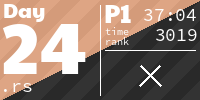
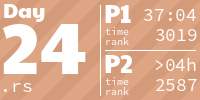
day25: complete solution sill need to finish day 21 for the last star!

diff --git a/src/day25.rs b/src/day25.rs
@@ -1,0 +1,143 @@
+use aoc_runner_derive::aoc;
+use itertools::Itertools;
+
+enum LockKey {
+    Lock,
+    Key,
+}
+
+#[derive(Clone, Debug)]
+struct LockPile {
+    keys: Vec<Vec<usize>>,
+    locks: Vec<Vec<usize>>,
+}
+
+fn parse_grid(lines: &Vec<&str>) -> (LockKey, Vec<usize>) {
+    assert_eq!(lines.len(), 7);
+    if lines[0].chars().all(|c| c == '#') {
+        // lock
+        let mut pins = vec![0; 5];
+        for row in 1..lines.len() {
+            let row_s = lines[row];
+            for i in 0..row_s.len() {
+                if row_s.chars().nth(i) == Some('#') {
+                    pins[i] = row
+                }
+            }
+        }
+        (LockKey::Lock, pins)
+    } else if lines[6].chars().all(|c| c == '#') {
+        // key
+        let mut pins = vec![5; 5];
+        for row in (1..lines.len()).rev() {
+            let row_s = lines[row];
+            for i in 0..row_s.len() {
+                if row_s.chars().nth(i) == Some('#') {
+                    pins[i] = 6 - row
+                }
+            }
+        }
+        (LockKey::Key, pins)
+    } else {
+        panic!("not a lock or a key: {:?}", lines);
+    }
+}
+
+fn parse(input: &str) -> LockPile {
+    let mut locks = Vec::new();
+    let mut keys = Vec::new();
+    let mut accum: Vec<&str> = Vec::new();
+    for line in input.lines() {
+        if line == "" {
+            let (lk, pins) = parse_grid(&accum);
+            match lk {
+                LockKey::Lock => locks.push(pins),
+                LockKey::Key => keys.push(pins),
+            }
+            accum.clear();
+        } else {
+            accum.push(line);
+        }
+    }
+    if accum.len() != 0 {
+        let (lk, pins) = parse_grid(&accum);
+        match lk {
+            LockKey::Lock => locks.push(pins),
+            LockKey::Key => keys.push(pins),
+        }
+    }
+    LockPile { keys, locks }
+}
+
+fn test_lock_key(lock: &Vec<usize>, key: &Vec<usize>) -> bool {
+    !lock.iter().zip(key.iter()).any(|(lp, kp)| lp + kp > 5)
+}
+
+#[aoc(day25, part1)]
+pub fn part1(input: &str) -> i64 {
+    let lockpile = parse(input);
+
+    lockpile
+        .locks
+        .iter()
+        .cartesian_product(lockpile.keys.iter())
+        .filter(|(l, k)| test_lock_key(l, k))
+        .count() as i64
+}
+
+#[aoc(day25, part2)]
+pub fn part2(_input: &str) -> String {
+    "run the other solutions for day 25 part 2!".to_string()
+}
+
+#[cfg(test)]
+mod tests {
+    use super::*;
+    const EXAMPLE: &str = "#####
+.####
+.####
+.####
+.#.#.
+.#...
+.....
+
+#####
+##.##
+.#.##
+...##
+...#.
+...#.
+.....
+
+.....
+#....
+#....
+#...#
+#.#.#
+#.###
+#####
+
+.....
+.....
+#.#..
+###..
+###.#
+###.#
+#####
+
+.....
+.....
+.....
+#....
+#.#..
+#.#.#
+#####";
+
+    #[test]
+    fn part1_example() {
+        assert_eq!(part1(EXAMPLE), 3);
+    }
+
+    #[test]
+    fn part2_example() {}
+}

diff --git a/src/lib.rs b/src/lib.rs
@@ -15,6 +15,7 @@ pub mod day21;
 pub mod day22;
 pub mod day23;
 pub mod day24;
+pub mod day25;
 pub mod day3;
 pub mod day4;
 pub mod day5;

diff --git a/README.md b/README.md
@@ -1,6 +1,6 @@
 <!-- AOC TILES BEGIN -->
 <h1 align="center">
-  2024 - 46 ⭐ - Rust
+  2024 - 48 ⭐ - Rust
 </h1>
 <a href="src/day1.rs">
   <img src=".aoc_tiles/tiles/2024/01.png" width="161px">
@@ -73,5 +73,8 @@
 </a>
 <a href="src/day24.rs">
   <img src=".aoc_tiles/tiles/2024/24.png" width="161px">
+</a>
+<a href="src/day25.rs">
+  <img src=".aoc_tiles/tiles/2024/25.png" width="161px">
 </a>
 <!-- AOC TILES END -->
